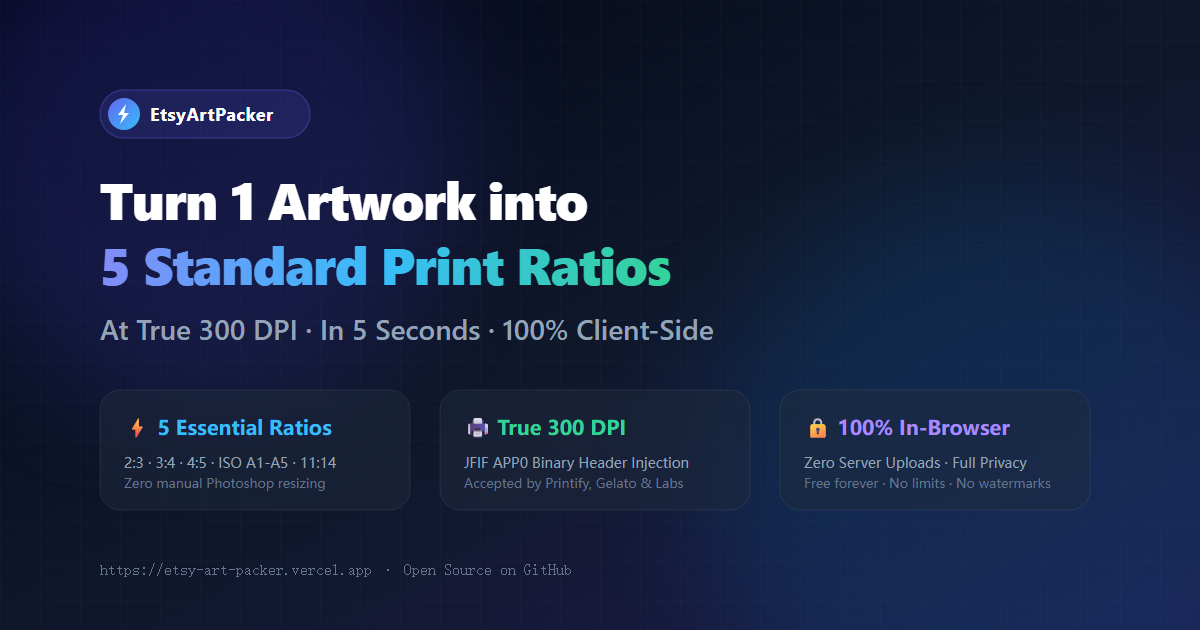
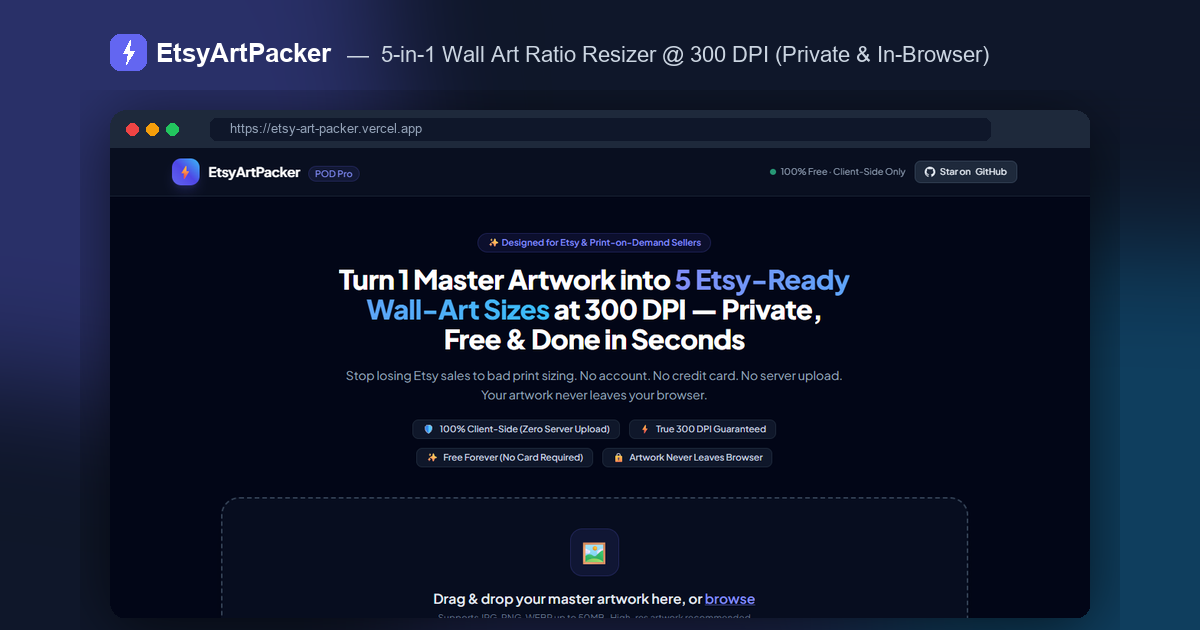
yohua

diff --git a/index.html b/index.html
@@ -18,7 +18,7 @@
   <meta property="og:url" content="https://etsy-art-packer.vercel.app/">
   <meta property="og:title" content="EtsyArtPacker - Free 5-in-1 Wall Art Ratio Resizer @ 300 DPI">
   <meta property="og:description" content="Turn 1 image into 5 standard print ratios at 300 DPI in 5 seconds. 100% client-side, zero server upload, customer print guide included.">
-  <meta property="og:image" content="https://etsy-art-packer.vercel.app/og-image.png">
+  <meta property="og:image" content="https://etsy-art-packer.vercel.app/og-image-v2.png">
   <meta property="og:image:type" content="image/png">
   <meta property="og:image:width" content="1200">
   <meta property="og:image:height" content="630">
@@ -28,7 +28,7 @@
   <meta name="twitter:url" content="https://etsy-art-packer.vercel.app/">
   <meta name="twitter:title" content="EtsyArtPacker - Free 5-in-1 Wall Art Ratio Resizer @ 300 DPI">
   <meta name="twitter:description" content="Stop resizing in Photoshop for 15 mins. Auto-crop to 5 essential frame ratios, inject 300 DPI, and download Etsy-ready ZIP package.">
-  <meta name="twitter:image" content="https://etsy-art-packer.vercel.app/og-image.png">
+  <meta name="twitter:image" content="https://etsy-art-packer.vercel.app/og-image-v2.png">
 
   <!-- Favicon -->
   <link rel="icon" type="image/svg+xml" href="favicon.svg">
